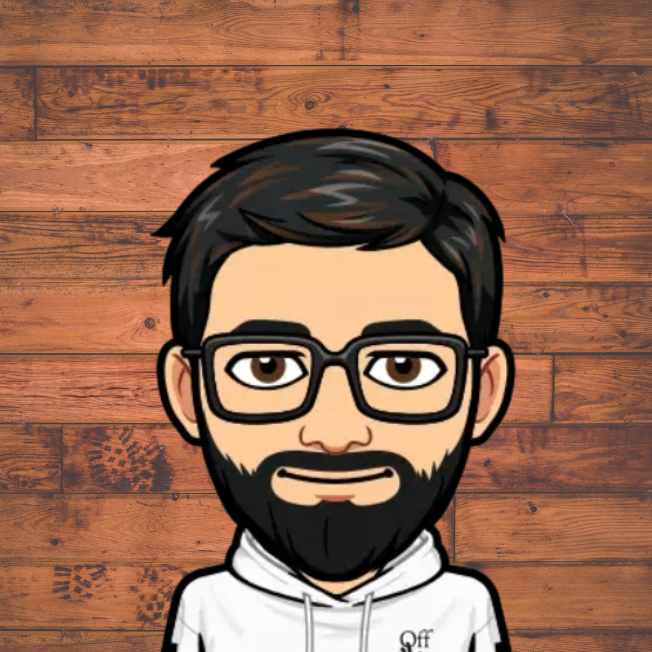
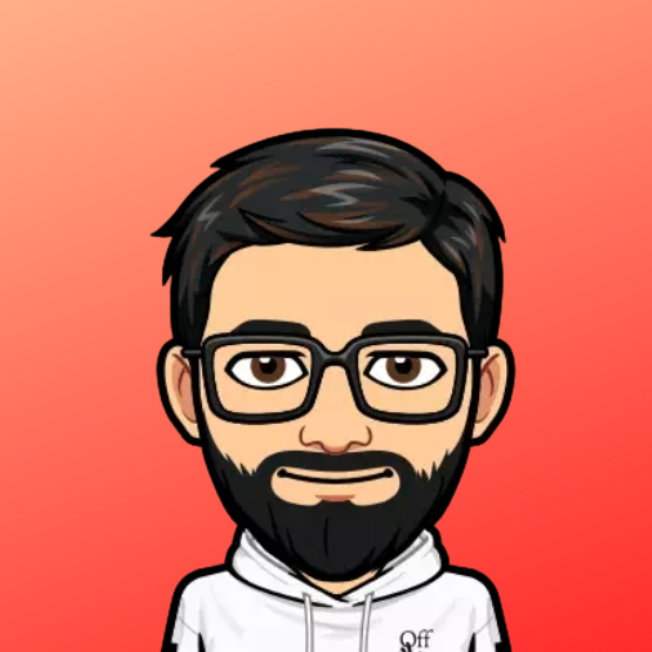
final commit for now

diff --git a/index.html b/index.html
@@ -5,7 +5,7 @@
     <meta charset="UTF-8" />
     <meta name="viewport" content="width=device-width, initial-scale=1.0" />
     <title>The Programmer _ Arafat</title>
-    <meta name="description" content="Be an enthusiastic programmer">
+    <meta name="description" content="The Enthusiastic Programmer">
     <meta name="author" content="Arafat Portfolio">
     <!-- Icons -->
     <link rel="icon" href="/img/favicon.png" type="image/png">

diff --git a/css/style.css b/css/style.css
@@ -15,7 +15,9 @@
 
     --clr-light: #fff;
     --clr-dark: #303030;
-    --clr-accent: #16e0bd;
+    /* --clr-accent: #16e0bd; */
+    /* --clr-accent: #A6B34B; */
+    --clr-accent: #FE3C37;
 
     --fs-h1: 3rem;
     --fs-h2: 2.25rem;
